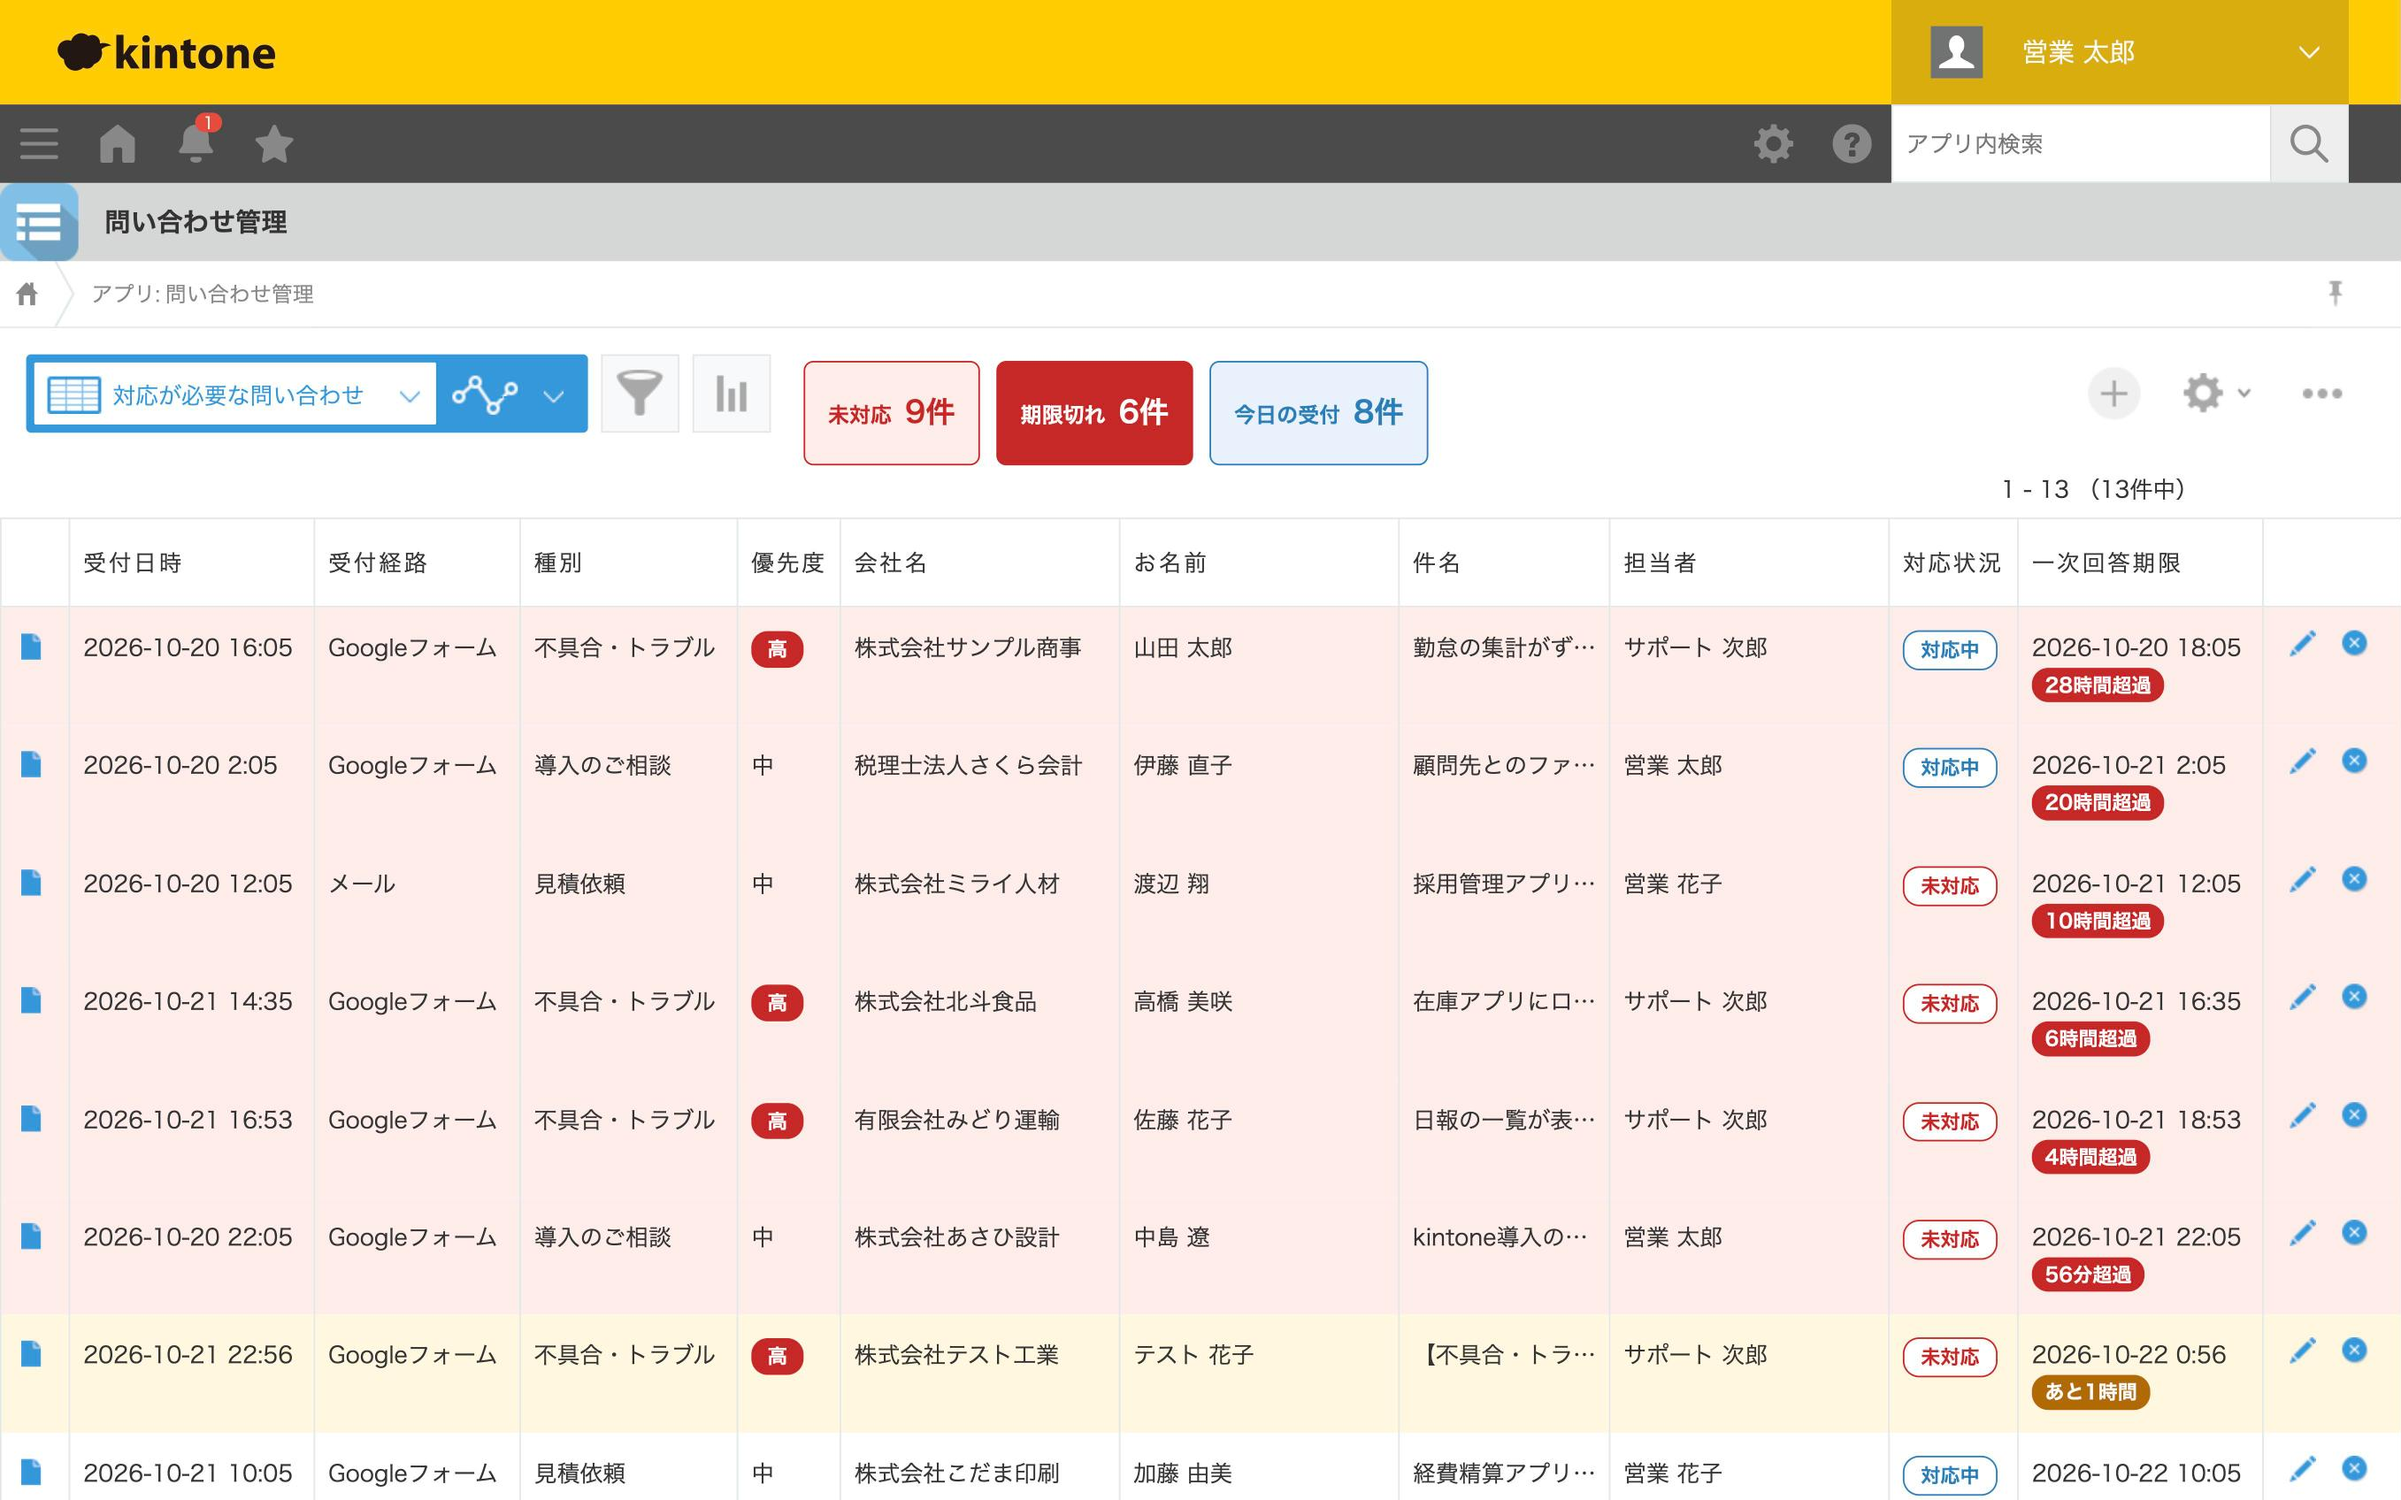
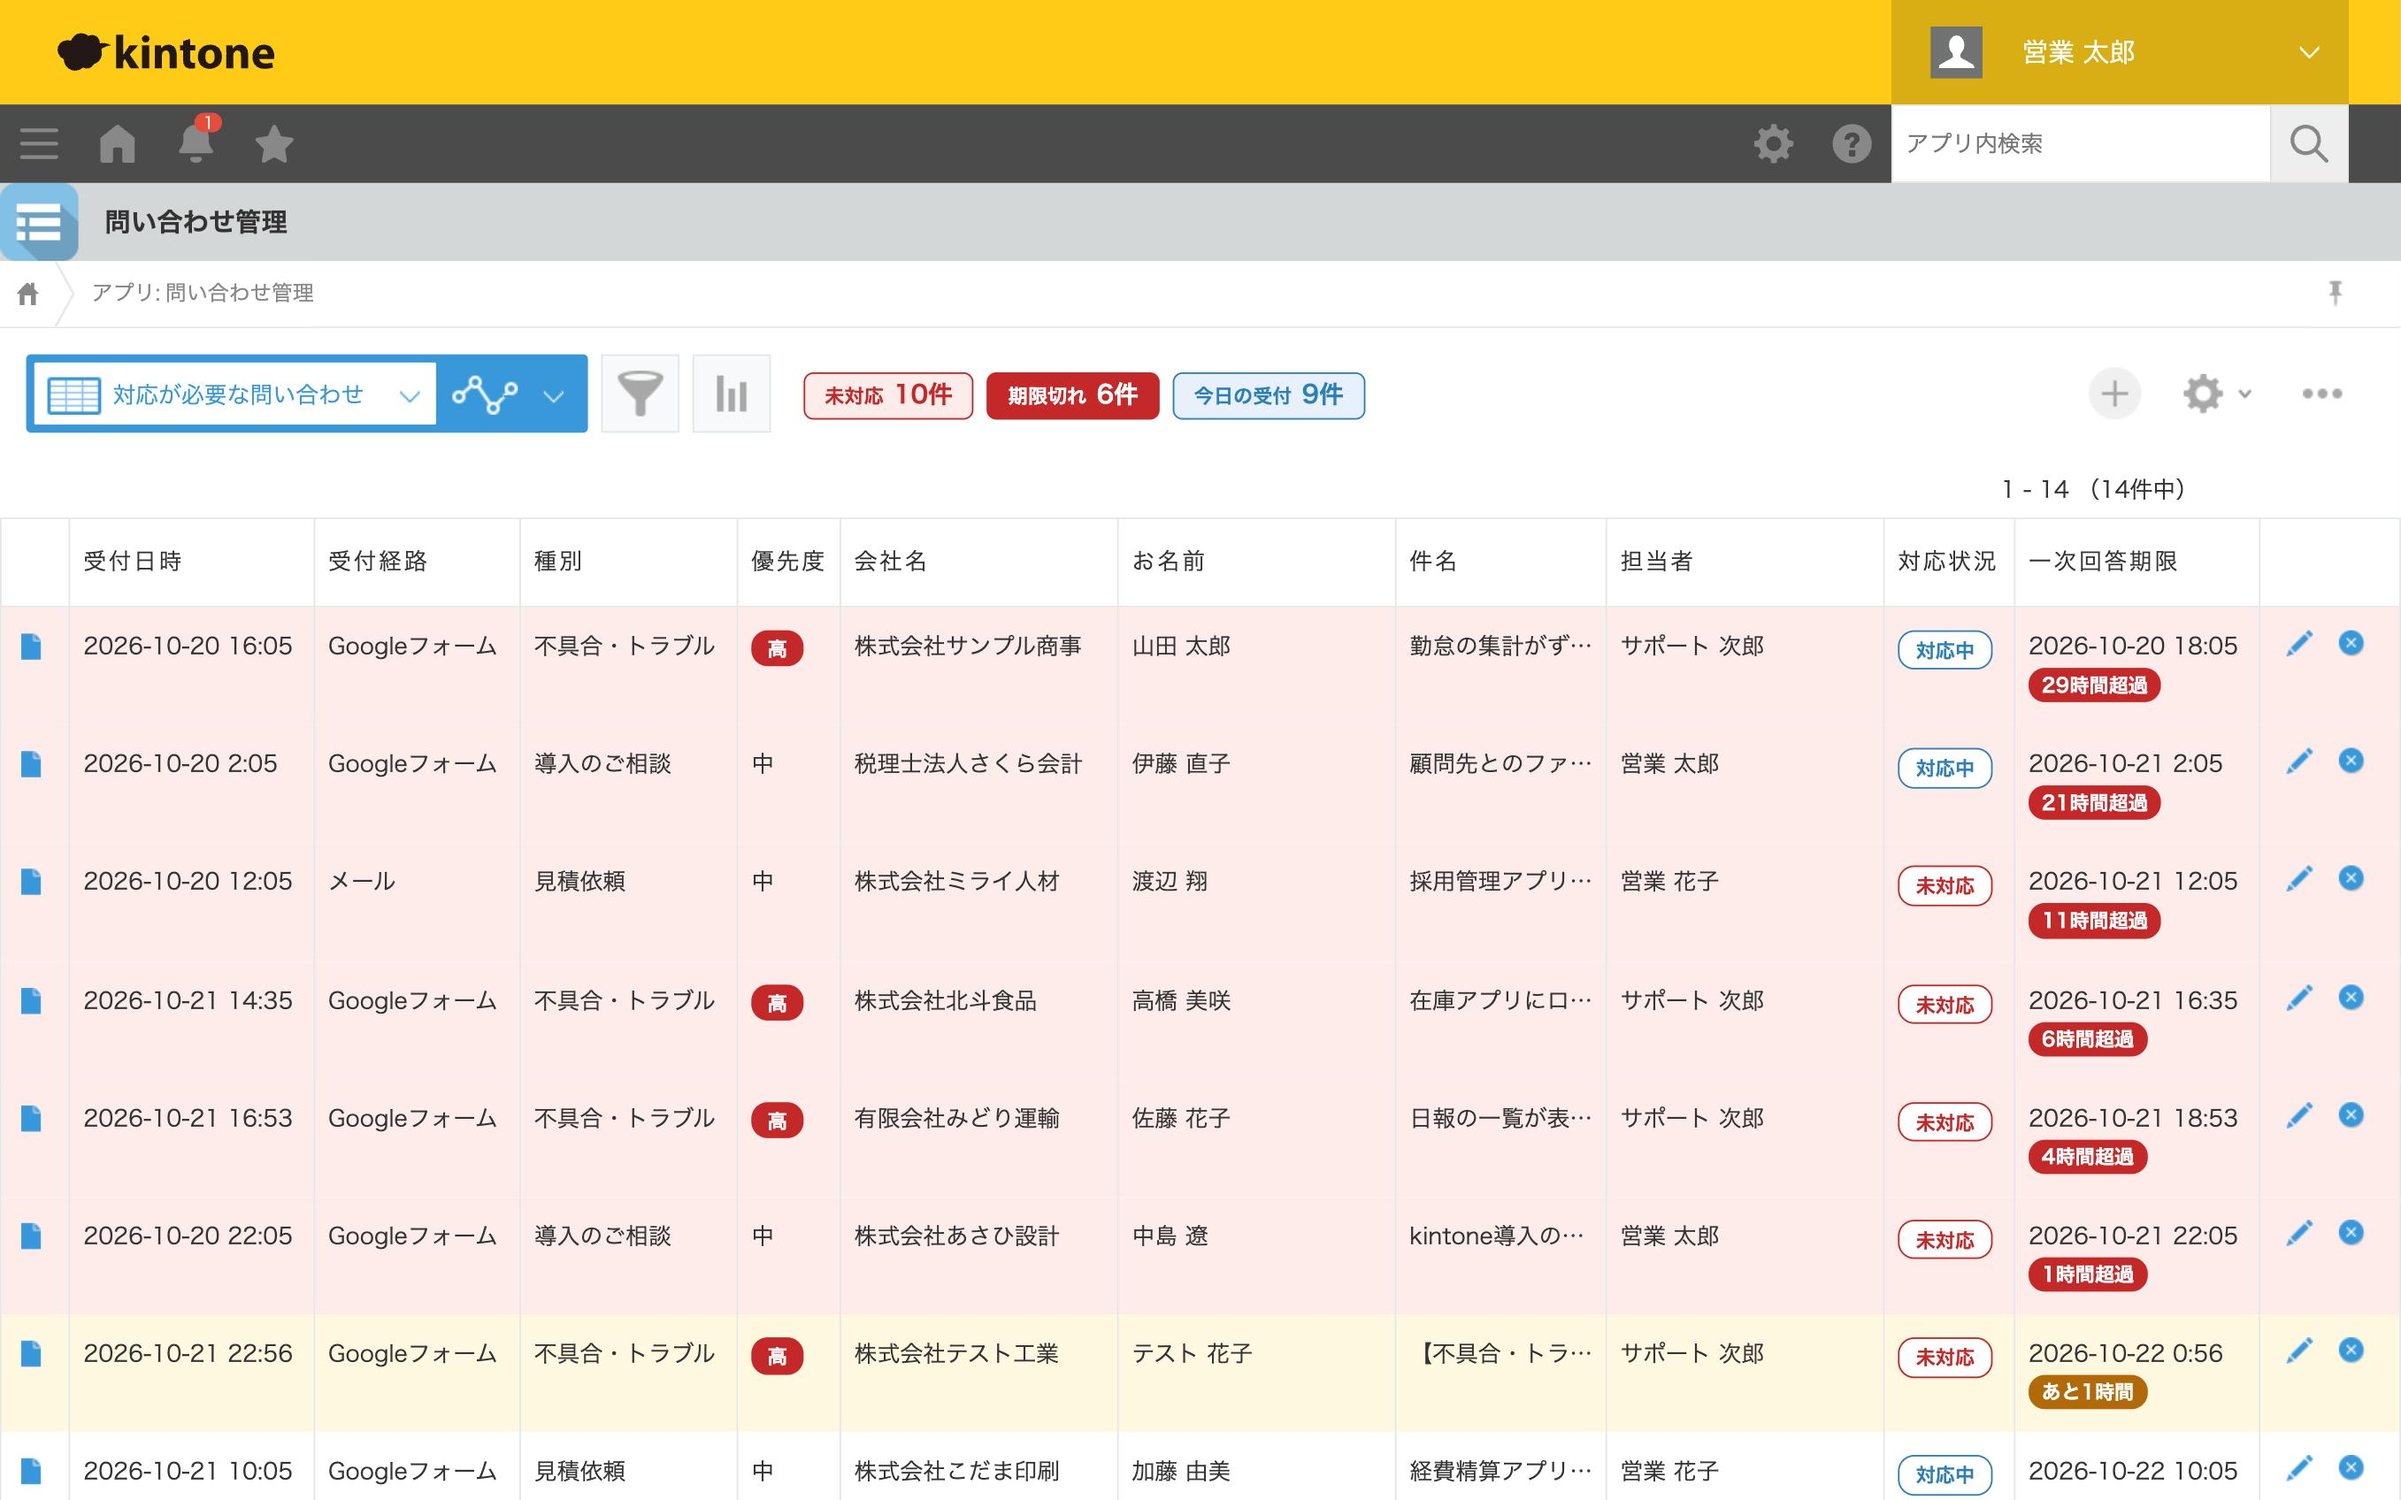
Make inquiry summary compact and retake list screenshot

diff --git a/03-inquiry-automation/css/inquiry.css b/03-inquiry-automation/css/inquiry.css
@@ -86,28 +86,31 @@
  * ------------------------------------------------------------ */
 .iq-summary {
   display: inline-flex;
-  gap: 10px;
-  margin: 4px 0 4px 12px;
+  align-items: center;
+  gap: 8px;
+  margin: 0 0 0 12px;
   vertical-align: middle;
 }
 
+/* ヘッダーのボタン類と高さをそろえる（縦に場所を取りすぎない） */
 .iq-summary__item {
   display: flex;
   align-items: baseline;
-  gap: 8px;
-  padding: 6px 14px;
+  gap: 6px;
+  padding: 2px 12px;
   border: 1px solid currentColor;
   border-radius: 6px;
   background: #fff;
+  line-height: 1.5;
 }
 
 .iq-summary__label {
-  font-size: 13px;
+  font-size: 12px;
   font-weight: bold;
 }
 
 .iq-summary__count {
-  font-size: 18px;
+  font-size: 15px;
   font-weight: bold;
 }
 
